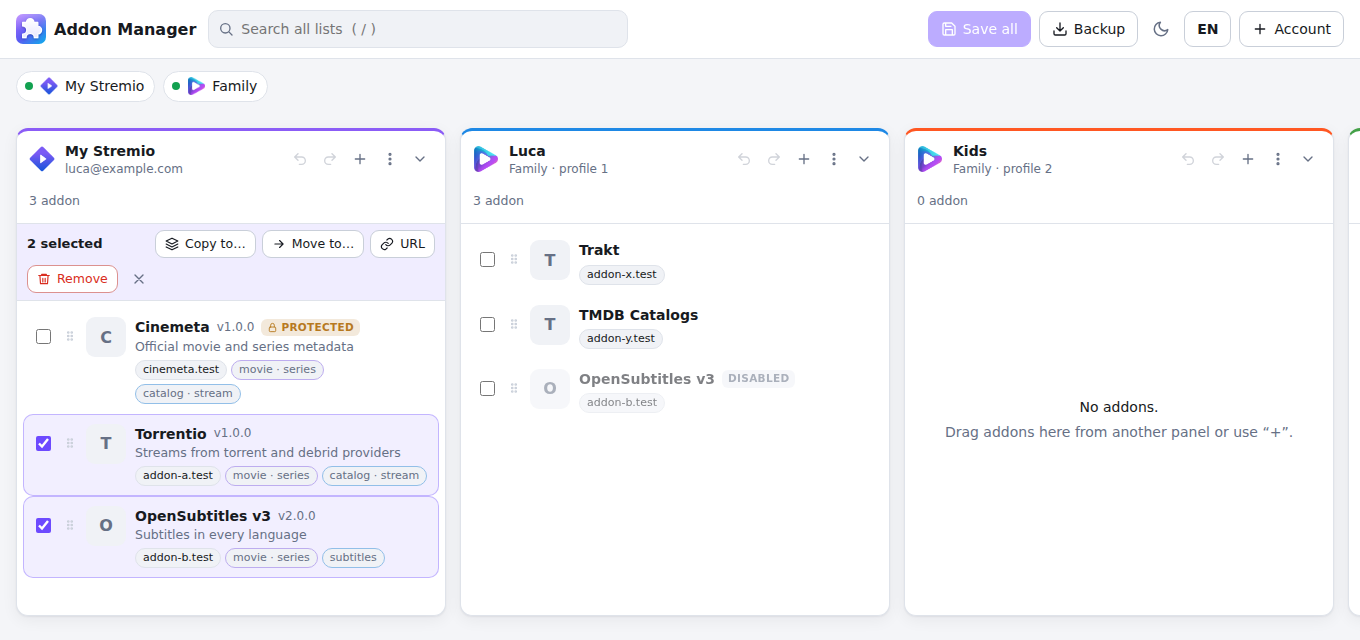
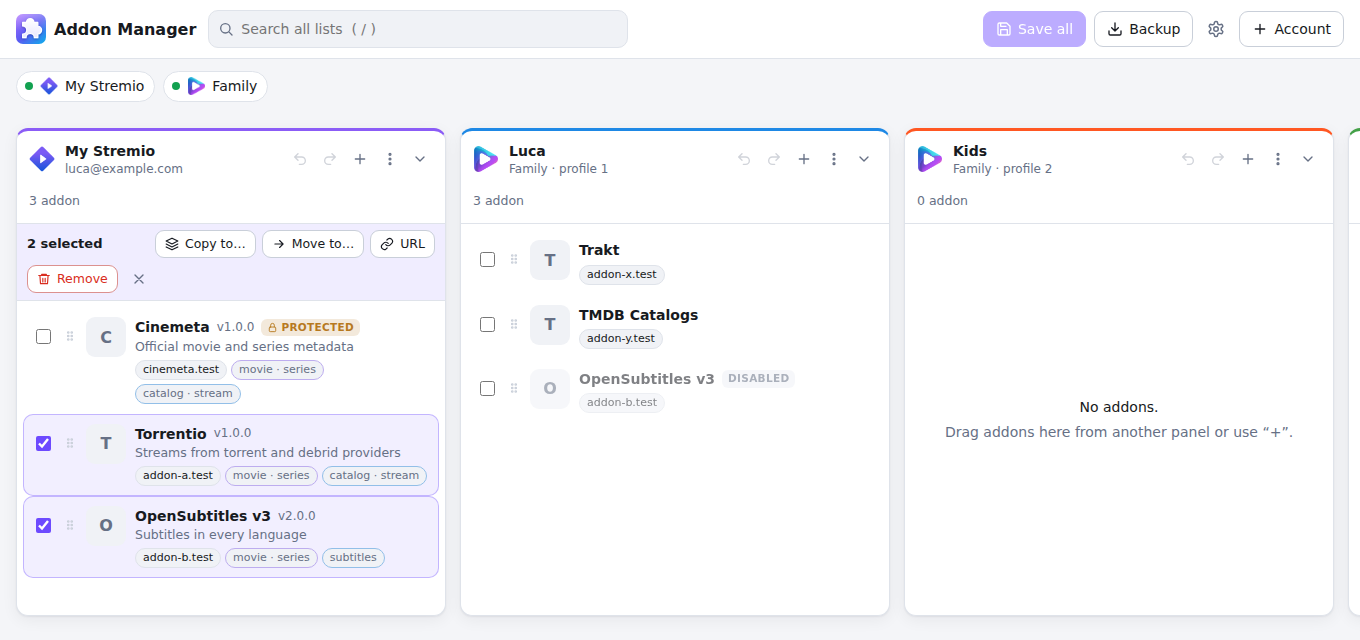
Move language, theme, install and local data into a Settings dialog
A gear button replaces the theme and language buttons in the top bar
(phones stay on one row). Settings holds Language, Theme (Auto/Light/Dark,
new), Install as an app and Sign out of everything / delete local data;
Backup keeps export and automatic backups only. Long danger-button
labels wrap inside dialogs.

Claude-Session: https://claude.ai/code/session_011UsVgNPfg9fvneWFE5R5Zv

Changed region(s): [[0.6794, 0.0, 0.8956, 0.0938]]

diff --git a/js/ui/dialogs.js b/js/ui/dialogs.js
@@ -6,6 +6,7 @@ import { listBackups } from '../store.js';
 import { installSection } from './install-ui.js';
 import { extractUrls, idOf, hostOf, str, shownName } from '../util.js';
 import { t, getLang, setLang, locale, LANGUAGES } from '../i18n.js';
+import { THEMES, currentTheme, setTheme } from './theme.js';
 
 const field = (label, input, hint) =>
   h('label', { class: 'field' }, h('span', { class: 'field-label' }, label), input, hint ? h('span', { class: 'field-hint' }, hint) : null);
@@ -254,24 +255,50 @@ export function openBackups() {
             h('div', null, h('strong', null, `${b.account || ''} · ${b.title}`), h('small', null, `${fmt(b.ts)} — ${t('{n} addons', { n: b.items.length })}`)),
             h('button', { type: 'button', class: 'btn small', onClick: () => downloadFile(`addon-manager-auto-${b.ts}.json`, JSON.stringify(buildExport([{ title: b.title, account: b.account, kind: b.kind, items: b.items }]), null, 2)) }, icon('download', 14), ' ', t('Download')))))
           : h('p', { class: 'muted' }, t('No automatic backups yet.')),
-        h('h3', null, t('Language')),
-        languageSection(),
-        h('h3', null, t('Install as an app')),
-        installSection(),
-        h('h3', null, t('Data in this browser')),
-        h('p', { class: 'field-hint' }, t('Signs out of all accounts (invalidating the tokens on the server) and deletes the tokens, backups and settings saved here. Use it on a computer that is not yours or if you fear a token has been exposed.')),
-        h('div', { class: 'row-actions' }, h('button', { type: 'button', class: 'btn danger', onClick: async () => {
-          const ok = await confirmDialog({
-            title: t('Sign out of everything and delete local data?'), danger: true, confirm: t('Sign out and delete'),
-            body: h('p', null, t('Unsaved changes will be lost. The addons on the servers are not touched.')),
-          });
-          if (!ok) return;
-          await app.forgetEverything();
-          toast(t('Signed out of all accounts. Local data deleted.'), 'ok');
-          close();
-        } }, icon('logout', 15), ' ', t('Sign out of everything and delete local data')))),
+      ),
       h('div', { class: 'dialog-actions' }, h('button', { type: 'button', class: 'btn', onClick: () => close() }, t('Close'))));
   }, { wide: true, label: t('Backup') });
+}
+
+// ---------- impostazioni ----------
+/** Impostazioni dell'app (ingranaggio nella barra): lingua, tema, installazione e dati salvati in questo browser. */
+export function openSettings() {
+  return dialog((close) => h('div', { class: 'dialog-body' },
+    dialogHeader(t('Settings'), close),
+    h('div', { class: 'dialog-content' },
+      h('h3', null, t('Language')),
+      // il dialogo si riapre nella nuova lingua
+      languageSection({ onChange: () => { close(); openSettings(); } }),
+      h('h3', null, t('Theme')),
+      themeSection(),
+      h('h3', null, t('Install as an app')),
+      installSection(),
+      h('h3', null, t('Data in this browser')),
+      h('p', { class: 'field-hint' }, t('Signs out of all accounts (invalidating the tokens on the server) and deletes the tokens, backups and settings saved here. Use it on a computer that is not yours or if you fear a token has been exposed.')),
+      h('div', { class: 'row-actions' }, h('button', { type: 'button', class: 'btn danger', onClick: async () => {
+        const ok = await confirmDialog({
+          title: t('Sign out of everything and delete local data?'), danger: true, confirm: t('Sign out and delete'),
+          body: h('p', null, t('Unsaved changes will be lost. The addons on the servers are not touched.')),
+        });
+        if (!ok) return;
+        await app.forgetEverything();
+        toast(t('Signed out of all accounts. Local data deleted.'), 'ok');
+        close();
+      } }, icon('logout', 15), ' ', t('Sign out of everything and delete local data')))),
+    h('div', { class: 'dialog-actions' }, h('button', { type: 'button', class: 'btn', onClick: () => close() }, t('Close')))), { wide: true, label: t('Settings') });
+}
+
+/** Chiaro / scuro / automatico (segue il sistema). */
+function themeSection() {
+  const labels = { auto: t('Auto'), light: t('Light'), dark: t('Dark') };
+  const icons = { auto: 'monitor', light: 'sun', dark: 'moon' };
+  const group = h('div', { class: 'row-actions', role: 'radiogroup', 'aria-label': t('Theme') });
+  const render = () => fill(group, ...THEMES.map((mode) => h('button', {
+    type: 'button', role: 'radio', 'aria-checked': String(mode === currentTheme()), class: `btn${mode === currentTheme() ? ' primary' : ''}`, dataset: { theme: mode },
+    onClick: () => { setTheme(mode); render(); },
+  }, icon(icons[mode], 15), ' ', labels[mode])));
+  render();
+  return h('div', null, group, h('p', { class: 'field-hint' }, t('Auto follows the light or dark setting of your device.')));
 }
 
 // ---------- conferme di salvataggio ----------
@@ -309,11 +336,11 @@ export async function confirmConflict(panel, remoteItems) {
 }
 
 // ---------- lingua ----------
-/** Scelta della lingua nella finestra Backup (sui telefoni la barra in alto non ha spazio per il pulsante). */
-export function languageSection({ small = false, className = 'row-actions' } = {}) {
+/** Scelta della lingua (Impostazioni e schermata iniziale). `onChange` parte dopo il cambio. */
+export function languageSection({ small = false, className = 'row-actions', onChange } = {}) {
   return h('div', { class: className, role: 'radiogroup', 'aria-label': t('Language') },
     ...Object.entries(LANGUAGES).map(([code, l]) => h('button', {
       type: 'button', role: 'radio', 'aria-checked': String(code === getLang()), class: `btn${small ? ' small' : ''}${code === getLang() ? ' primary' : ''}`,
-      onClick: () => { if (code !== getLang()) { setLang(code); document.querySelector('dialog[open] .dialog-head .icon-btn')?.click(); } },
+      onClick: () => { if (code !== getLang()) { setLang(code); onChange?.(); } },
     }, l.name)));
 }

diff --git a/js/main.js b/js/main.js
@@ -1,8 +1,9 @@
 import * as app from './app.js';
-import { t, getLang, setLang, applyStatic, onLangChange, LANGUAGES } from './i18n.js';
-import { h, icon, toast, menu, closeMenu } from './ui/dom.js';
+import { t, applyStatic, onLangChange } from './i18n.js';
+import { h, icon, toast, closeMenu } from './ui/dom.js';
 import { mountBoard, renderBoard, renderPanel, setFilter, updateSaveAll } from './ui/views.js';
-import { openLogin, openBackups, confirmSave, confirmConflict } from './ui/dialogs.js';
+import { openLogin, openBackups, openSettings, confirmSave, confirmConflict } from './ui/dialogs.js';
+import { applyTheme } from './ui/theme.js';
 import { initInstall, registerServiceWorker } from './install.js';
 import { mountInstallBanner } from './ui/install-ui.js';
 
@@ -20,20 +21,6 @@ if (window.top !== window.self) {
 
 applyStatic();
 
-// ---------- tema ----------
-const root = document.documentElement;
-function applyTheme() {
-  const t = app.state.settings.theme;
-  if (t === 'light' || t === 'dark') root.dataset.theme = t; else delete root.dataset.theme;
-  const dark = t === 'dark' || (t === 'auto' && matchMedia('(prefers-color-scheme: dark)').matches);
-  $('theme').replaceChildren(icon(dark ? 'sun' : 'moon', 18));
-}
-$('theme').addEventListener('click', () => {
-  const dark = root.dataset.theme === 'dark' || (!root.dataset.theme && matchMedia('(prefers-color-scheme: dark)').matches);
-  app.updateSettings({ theme: dark ? 'light' : 'dark' });
-  applyTheme();
-});
-
 // ---------- collegamento controller <-> UI ----------
 mountBoard($('board'), $('accounts'), $('save-all'));
 app.setHooks({ toast, confirmSave, confirmConflict });
@@ -47,29 +34,23 @@ const finePointer = matchMedia('(hover: hover) and (pointer: fine)');
 function renderChrome() {
   $('backup').replaceChildren(icon('download', 16), h('span', { class: 'lbl' }, t('Backup')));
   $('add-account').replaceChildren(icon('plus', 16), h('span', { class: 'lbl' }, t('Account')));
-  $('lang').textContent = getLang().toUpperCase();
+  $('settings').replaceChildren(icon('settings', 18));
   $('search').placeholder = finePointer.matches ? t('Search all lists  ( / )') : t('Search all lists');
 }
 renderChrome();
 finePointer.addEventListener('change', renderChrome);
 
 // ---------- lingua ----------
-// La scelta è salvata (js/i18n.js) e vale anche alla visita successiva; cambiandola si ridisegna tutto.
-$('lang').addEventListener('click', (e) => menu(e.currentTarget, [
-  { heading: t('Language') },
-  ...Object.entries(LANGUAGES).map(([code, l]) => ({
-    label: l.name, icon: code === getLang() ? 'check' : null, onClick: () => setLang(code),
-  })),
-]));
+// La scelta (Impostazioni) è salvata da js/i18n.js e vale anche alla visita successiva; cambiandola si ridisegna tutto.
 onLangChange(() => {
   closeMenu();
   renderChrome();
-  applyTheme();
   app.notifyBoard();
 });
 
 $('add-account').addEventListener('click', () => openLogin());
 $('backup').addEventListener('click', () => openBackups());
+$('settings').addEventListener('click', () => openSettings());
 $('save-all').addEventListener('click', async () => {
   const n = await app.saveAll();
   if (n > 1) toast(t('{n} lists saved.', { n }), 'ok');
@@ -112,8 +93,6 @@ document.addEventListener('drop', (e) => { if (!e.defaultPrevented) e.preventDef
 addEventListener('beforeunload', (e) => {
   if (app.dirtyPanels().length) { e.preventDefault(); e.returnValue = ''; }
 });
-
-matchMedia('(prefers-color-scheme: dark)').addEventListener('change', applyTheme);
 
 // ---------- installazione come app + uso senza rete ----------
 initInstall();

diff --git a/css/styles.css b/css/styles.css
@@ -36,7 +36,7 @@ button, input, select, textarea { font: inherit; color: inherit; }
 .search { order: 1; position: relative; flex: 1; max-width: 420px; }
 .search .icon { position: absolute; left: 10px; top: 50%; transform: translateY(-50%); color: var(--muted); }
 .search input[type=search] { width: 100%; padding: 8px 10px 8px 32px; border: 1px solid var(--border); border-radius: 10px; background: var(--surface-2); }
-.lang-btn { font-weight: 600; min-width: 44px; justify-content: center; }
+.dialog .row-actions .btn { white-space: normal; text-align: left; } /* testi lunghi (es. «Esci da tutto…») vanno a capo invece di uscire dal dialogo */
 .empty-lang { margin-top: 18px; display: flex; gap: 8px; justify-content: center; }
 .top-actions { order: 2; margin-left: auto; display: flex; gap: 8px; align-items: center; }
 
@@ -202,7 +202,6 @@ textarea { resize: vertical; font: 12.5px ui-monospace, monospace; }
   .top-actions { margin-left: auto; gap: 4px; flex-wrap: nowrap; }
   .top-actions .btn { padding: 0 11px; min-height: 38px; }
   .top-actions .lbl { display: none; }
-  .lang-btn { display: none; } /* sui telefoni la lingua si sceglie in Backup o nella schermata iniziale */
   .panel.acct-before { box-shadow: 0 -6px 0 0 var(--primary); } .panel.acct-after { box-shadow: 0 6px 0 0 var(--primary); }
   .count-badge { display: inline-grid; place-items: center; min-width: 18px; height: 18px; padding: 0 5px; border-radius: 9px; background: #fff; color: var(--primary); font-size: 11px; font-weight: 700; }
   .accounts { padding: 12px max(12px, var(--safe-right)) 2px max(12px, var(--safe-left)); }

diff --git a/index.html b/index.html
@@ -30,8 +30,7 @@
       <div class="top-actions">
         <button id="save-all" type="button" class="btn primary" disabled></button>
         <button id="backup" type="button" class="btn" data-i18n-title="Backup and export" data-i18n-aria-label="Backup" title="Backup and export" aria-label="Backup">Backup</button>
-        <button id="theme" type="button" class="icon-btn" data-i18n-title="Change theme" data-i18n-aria-label="Change theme" aria-label="Change theme" title="Change theme"></button>
-        <button id="lang" type="button" class="btn lang-btn" aria-haspopup="menu" data-i18n-title="Language" data-i18n-aria-label="Language" aria-label="Language" title="Language">EN</button>
+        <button id="settings" type="button" class="icon-btn" data-i18n-title="Settings" data-i18n-aria-label="Settings" aria-label="Settings" title="Settings"></button>
         <button id="add-account" type="button" class="btn" data-i18n-title="Add account" data-i18n-aria-label="Add account" title="Add account" aria-label="Add account">+ Account</button>
       </div>
     </div>

diff --git a/js/ui/dom.js b/js/ui/dom.js
@@ -59,6 +59,8 @@ const ICONS = {
   layers: '<path d="M12 2L2 7l10 5 10-5-10-5zM2 17l10 5 10-5M2 12l10 5 10-5"/>',
   move: '<path d="M5 12h14M13 6l6 6-6 6"/>',
   chevron: '<path d="M6 9l6 6 6-6"/>',
+  settings: '<path d="M12.22 2h-.44a2 2 0 0 0-2 2v.18a2 2 0 0 1-1 1.73l-.43.25a2 2 0 0 1-2 0l-.15-.08a2 2 0 0 0-2.73.73l-.22.38a2 2 0 0 0 .73 2.73l.15.1a2 2 0 0 1 1 1.72v.51a2 2 0 0 1-1 1.74l-.15.09a2 2 0 0 0-.73 2.73l.22.38a2 2 0 0 0 2.73.73l.15-.08a2 2 0 0 1 2 0l.43.25a2 2 0 0 1 1 1.73V20a2 2 0 0 0 2 2h.44a2 2 0 0 0 2-2v-.18a2 2 0 0 1 1-1.73l.43-.25a2 2 0 0 1 2 0l.15.08a2 2 0 0 0 2.73-.73l.22-.39a2 2 0 0 0-.73-2.73l-.15-.08a2 2 0 0 1-1-1.74v-.5a2 2 0 0 1 1-1.74l.15-.09a2 2 0 0 0 .73-2.73l-.22-.38a2 2 0 0 0-2.73-.73l-.15.08a2 2 0 0 1-2 0l-.43-.25a2 2 0 0 1-1-1.73V4a2 2 0 0 0-2-2z"/><circle cx="12" cy="12" r="3"/>',
+  monitor: '<rect x="2" y="3" width="20" height="14" rx="2"/><path d="M8 21h8M12 17v4"/>',
   user: '<path d="M20 21v-2a4 4 0 0 0-4-4H8a4 4 0 0 0-4 4v2"/><circle cx="12" cy="7" r="4"/>',
 };
 

diff --git a/js/locales/it.js b/js/locales/it.js
@@ -7,7 +7,6 @@ export default {
   "Skip to the lists": "Vai alle liste",
   "Backup and export": "Backup ed esportazione",
   "Backup": "Backup",
-  "Change theme": "Cambia tema",
   "Language": "Lingua",
   "Add account": "Aggiungi account",
   "Search addons": "Cerca addon",
@@ -308,4 +307,10 @@ export default {
   "It opens in a window of its own, with its own icon; the interface also loads without a connection (managing addons needs the network).": "Si apre in una finestra tutta sua, con la propria icona; l'interfaccia si carica anche senza connessione (per gestire gli addon serve la rete).",
   "URLs found in the file": "URL trovati nel file",
   "There is no addon URL in the dragged content.": "Nel contenuto trascinato non c'è un URL di addon.",
+  "Settings": "Impostazioni",
+  "Theme": "Tema",
+  "Auto": "Automatico",
+  "Light": "Chiaro",
+  "Dark": "Scuro",
+  "Auto follows the light or dark setting of your device.": "Automatico segue l'impostazione chiara o scura del dispositivo.",
 };

diff --git a/js/ui/theme.js b/js/ui/theme.js
@@ -1,0 +1,19 @@
+// Tema dell'interfaccia: «auto» segue il sistema, oppure chiaro / scuro (scelta salvata nelle impostazioni).
+import * as app from '../app.js';
+
+export const THEMES = ['auto', 'light', 'dark'];
+
+/** Applica il tema salvato alla pagina (attributo data-theme; «auto» lascia decidere prefers-color-scheme). */
+export function applyTheme() {
+  const mode = app.state.settings.theme;
+  const root = document.documentElement;
+  if (mode === 'light' || mode === 'dark') root.dataset.theme = mode; else delete root.dataset.theme;
+}
+
+export function setTheme(mode) {
+  if (!THEMES.includes(mode)) return;
+  app.updateSettings({ theme: mode });
+  applyTheme();
+}
+
+export const currentTheme = () => (THEMES.includes(app.state.settings.theme) ? app.state.settings.theme : 'auto');

diff --git a/sw.js b/sw.js
@@ -31,6 +31,7 @@ const SHELL = [
   'js/ui/dialogs.js',
   'js/ui/dom.js',
   'js/ui/install-ui.js',
+  'js/ui/theme.js',
   'js/ui/views.js',
   'img/logo.svg',
   'img/nuvio.png',

diff --git a/README.md b/README.md
@@ -51,7 +51,8 @@ Addon Manager è un'applicazione web statica, senza backend: il browser comunica
 - **Sincronizza da…**: copia in una lista gli addon mancanti di un'altra, oppure rendila identica alla sorgente, con anteprima.
 - Importazione ed esportazione in JSON; backup automatico dello stato remoto prima di ogni salvataggio.
 - **Due lingue**: inglese (US, predefinita) e italiano ([vedi sotto](#lingua)).
-- Tema chiaro e scuro; **installabile come app** su computer e telefono, con l'interfaccia disponibile anche senza connessione.
+- **Impostazioni** (ingranaggio ⚙ nella barra): lingua, tema (automatico, chiaro o scuro), installazione come app e cancellazione dei dati locali, in un solo posto invece che in tanti pulsanti.
+- **Installabile come app** su computer e telefono, con l'interfaccia disponibile anche senza connessione.
 
 ## Guida rapida
 
@@ -64,8 +65,8 @@ Addon Manager è un'applicazione web statica, senza backend: il browser comunica
 
 L'interfaccia è in **inglese (US) alla prima visita**, qualunque sia la lingua del browser, e si può passare all'**italiano**:
 
-- **Computer:** pulsante `EN` / `IT` nella barra in alto.
-- **Telefono:** *Backup → Lingua*, oppure i pulsanti nella schermata iniziale (nella barra non c'è spazio).
+- **Ovunque:** ingranaggio ⚙ nella barra in alto → *Impostazioni → Lingua*.
+- **Schermata iniziale** (senza account): due pulsanti in fondo, per chi apre l'app per la prima volta.
 
 La scelta si ridisegna subito, senza perdere bozze o selezioni, e viene **salvata nel browser** (`localStorage`, chiave `addonmanager.lang`): alla visita successiva l'app si apre nell'ultima lingua scelta. Non è un dato personale, quindi resta anche dopo «Esci da tutto». Anche date e orari seguono la lingua (`en-US` / `it-IT`). Nel resto di questa guida i nomi dei pulsanti sono quelli italiani.
 
@@ -73,7 +74,7 @@ La scelta si ridisegna subito, senza perdere bozze o selezioni, e viene **salvat
 
 Addon Manager si può installare: si apre in una finestra tutta sua, con la propria icona e senza barra del browser. L'interfaccia si carica anche senza connessione (per gestire gli addon serve comunque la rete).
 
-- **Chrome ed Edge (computer e Android):** in cima alla pagina compare l'invito «Installa Addon Manager»; resta disponibile anche in *Backup → Installa come app*. In alternativa c'è l'icona di installazione nella barra degli indirizzi. Il browser la propone solo dopo qualche istante di utilizzo.
+- **Chrome ed Edge (computer e Android):** in cima alla pagina compare l'invito «Installa Addon Manager»; resta disponibile anche in *⚙ Impostazioni → Installa come app*. In alternativa c'è l'icona di installazione nella barra degli indirizzi. Il browser la propone solo dopo qualche istante di utilizzo.
 - **iPhone e iPad (Safari):** Condividi → «Aggiungi alla schermata Home». L'app non può farlo da sola: Safari non lo permette.
 - **Safari su Mac:** File → «Aggiungi al Dock…» (Safari 17 o successivi).
 - **Altri browser:** se supportano le app web, cerca «Installa app» o «Aggiungi alla schermata Home» nel menu.
@@ -113,7 +114,7 @@ Il trascinamento con il dito non è previsto: su touch si usa il menu ⋯.
 - **Credenziali.** La password serve solo a ottenere un token di sessione e non viene mai memorizzata. Il token viene conservato:
   - con «Ricordami» spento (impostazione predefinita) in `sessionStorage`, insieme a email, nome e backup automatici dell'account: chiusa la scheda non resta nulla nel browser;
   - con «Ricordami» attivo in `localStorage`, anche dopo la chiusura del browser.
-- **Revoca.** Il token Stremio non scade da solo. *Backup → «Esci da tutto e cancella i dati locali»* lo invalida sul server e cancella ogni dato salvato nel browser, anche nelle altre schede aperte dell'app (che altrimenti riscriverebbero token ed email). Allo stesso modo un account rimosso in una scheda sparisce dalle altre. La disconnessione da Nuvio usa `scope=local`, così le altre app restano collegate.
+- **Revoca.** Il token Stremio non scade da solo. *⚙ Impostazioni → «Esci da tutto e cancella i dati locali»* lo invalida sul server e cancella ogni dato salvato nel browser, anche nelle altre schede aperte dell'app (che altrimenti riscriverebbero token ed email). Allo stesso modo un account rimosso in una scheda sparisce dalle altre. La disconnessione da Nuvio usa `scope=local`, così le altre app restano collegate.
 - **Isolamento.** L'app è pubblicata su un dominio dedicato, con intestazioni HTTP di sicurezza:
   - Content-Security-Policy restrittiva, con Trusted Types e `frame-ancestors 'none'`;
   - `X-Frame-Options`, `nosniff`, HSTS, `no-referrer`.
@@ -167,7 +168,7 @@ js/store.js                        persistenza locale
 js/i18n.js, locales/it.js          lingue: t(), preferenza salvata, dizionario italiano
 js/install.js                      installazione come app e registrazione del service worker
 js/app.js                          controller: account, caricamento, salvataggio, copia
-js/ui/                             componenti dell'interfaccia
+js/ui/                             componenti dell'interfaccia (viste, dialoghi, impostazioni, tema)
 _headers                           intestazioni HTTP (Cloudflare Pages)
 redirect/                          pagina di reindirizzamento del vecchio indirizzo
 scripts/serve.mjs                  server di sviluppo
